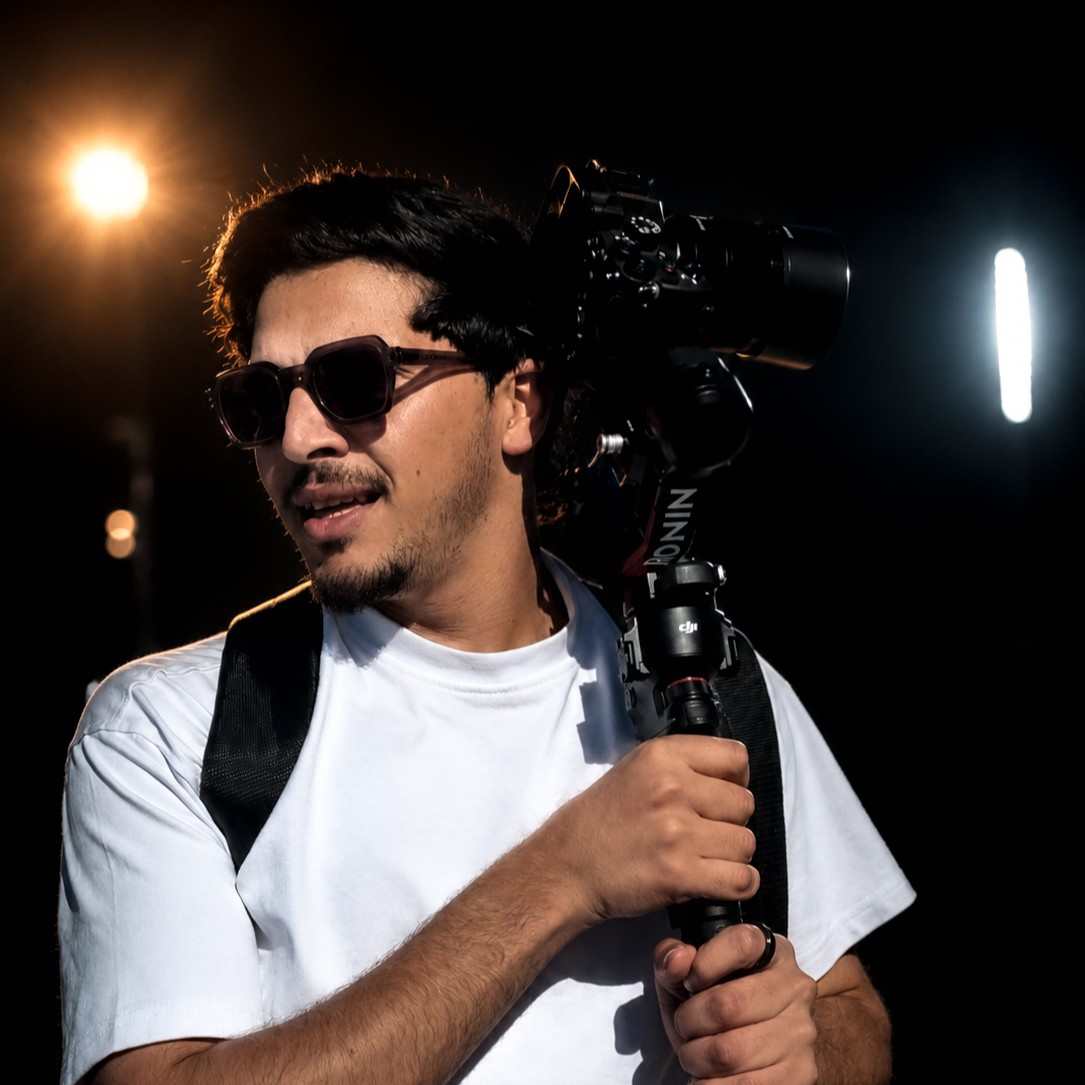
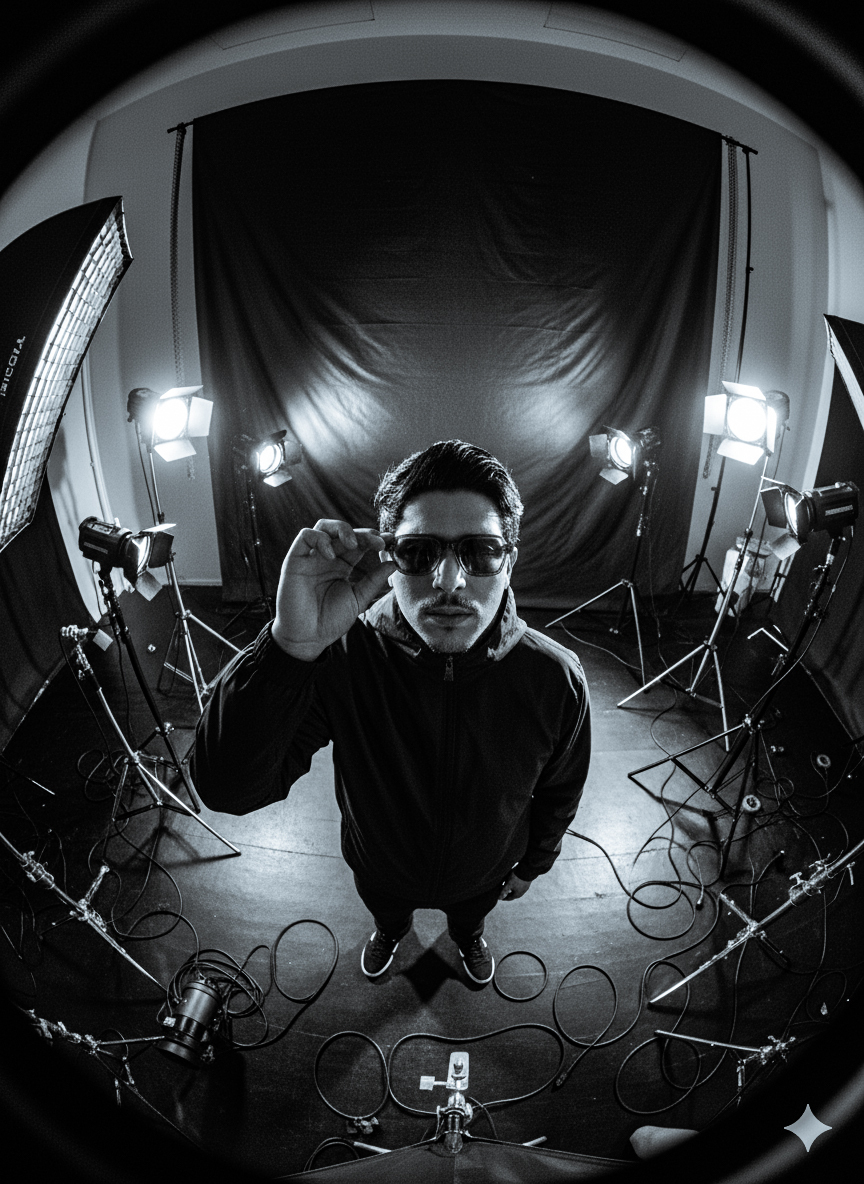
testing

diff --git a/style.css b/style.css
@@ -1967,13 +1967,52 @@ a:focus-visible {
         padding: 2rem 1.5rem;
     }
 
+    .pricing-name {
+        font-size: 1.1rem;
+    }
+
     .pricing-amount {
         font-size: 2rem;
     }
 
+    .pricing-sub {
+        font-size: 0.8rem;
+        margin-bottom: 1rem;
+    }
+
+    .pricing-features li {
+        font-size: 0.82rem;
+        padding: 0.45rem 0;
+    }
+
+    .pricing-btn {
+        padding: 0.65rem 1.4rem;
+        font-size: 0.78rem;
+    }
+
+    .pricing-table-title {
+        font-size: 1.15rem;
+    }
+
+    .pricing-table {
+        max-width: 100%;
+        border-radius: var(--radius-sm);
+    }
+
     .pricing-table-row {
-        padding: 0.65rem 1rem;
+        padding: 0.7rem 1rem;
+        font-size: 0.82rem;
+    }
+
+    .pricing-table-row .price {
         font-size: 0.85rem;
+    }
+
+    .pricing-cta-big {
+        padding: 0.9rem 2.2rem;
+        font-size: 1rem;
+        width: 100%;
+        justify-content: center;
     }
 }
 
@@ -1982,12 +2021,88 @@ a:focus-visible {
         padding: 5rem 1rem;
     }
 
+    .section-header {
+        margin-bottom: 3rem;
+    }
+
+    .pricing-card {
+        padding: 1.8rem 1.2rem;
+        border-radius: var(--radius-sm);
+    }
+
     .pricing-featured {
         transform: none;
+        border-color: var(--border-accent);
     }
 
     .pricing-featured:hover {
         transform: translateY(-6px);
+    }
+
+    .pricing-badge {
+        font-size: 0.6rem;
+        padding: 0.2rem 0.65rem;
+        top: 10px;
+        right: 10px;
+    }
+
+    .pricing-name {
+        font-size: 1rem;
+        margin-bottom: 0.3rem;
+    }
+
+    .pricing-amount {
+        font-size: 1.75rem;
+    }
+
+    .pricing-sub {
+        font-size: 0.75rem;
+        margin-bottom: 0.8rem;
+    }
+
+    .pricing-features {
+        margin-bottom: 1rem;
+    }
+
+    .pricing-features li {
+        font-size: 0.78rem;
+        padding: 0.4rem 0;
+        gap: 0.5rem;
+    }
+
+    .pricing-features li::before {
+        font-size: 0.7rem;
+    }
+
+    .pricing-btn {
+        padding: 0.6rem 1.2rem;
+        font-size: 0.72rem;
+    }
+
+    .pricing-table-title {
+        font-size: 1.05rem;
+        margin-bottom: 0.8rem;
+    }
+
+    .pricing-table {
+        border-radius: var(--radius-sm);
+    }
+
+    .pricing-table-row {
+        padding: 0.6rem 0.8rem;
+        font-size: 0.78rem;
+        gap: 0.5rem;
+    }
+
+    .pricing-table-row .price {
+        font-size: 0.8rem;
+    }
+
+    .pricing-cta-big {
+        padding: 0.8rem 1.8rem;
+        font-size: 0.92rem;
+        width: 100%;
+        justify-content: center;
     }
 }
 

diff --git a/works/index.html b/works/index.html
@@ -9,7 +9,7 @@
     <link rel="canonical" href="https://mouvision.me/works/">
     <link rel="preconnect" href="https://fonts.googleapis.com">
     <link rel="preconnect" href="https://fonts.gstatic.com" crossorigin>
-    <link href="https://fonts.googleapis.com/css2?family=Inter:wght@300;400;500;600;700;800&display=swap" rel="stylesheet">
+    <link href="https://fonts.googleapis.com/css2?family=Inter:wght@300;400;500;600;700;800&family=Space+Grotesk:wght@400;500;600;700;800&display=swap" rel="stylesheet">
     <link rel="stylesheet" href="https://cdn.jsdelivr.net/npm/bootstrap@5.3.3/dist/css/bootstrap.min.css">
     <link rel="stylesheet" href="/style.css">
     <meta property="og:title" content="Portfolio Gallery — mouvision.me">

diff --git a/index.html b/index.html
@@ -12,7 +12,7 @@
     <link rel="canonical" href="https://mouvision.me/">
     <link rel="preconnect" href="https://fonts.googleapis.com">
     <link rel="preconnect" href="https://fonts.gstatic.com" crossorigin>
-    <link href="https://fonts.googleapis.com/css2?family=Inter:wght@300;400;500;600;700;800&display=swap"
+    <link href="https://fonts.googleapis.com/css2?family=Inter:wght@300;400;500;600;700;800&family=Space+Grotesk:wght@400;500;600;700;800&display=swap"
         rel="stylesheet">
     <link rel="stylesheet" href="https://cdn.jsdelivr.net/npm/bootstrap@5.3.3/dist/css/bootstrap.min.css">
     <link rel="stylesheet" href="style.css">
